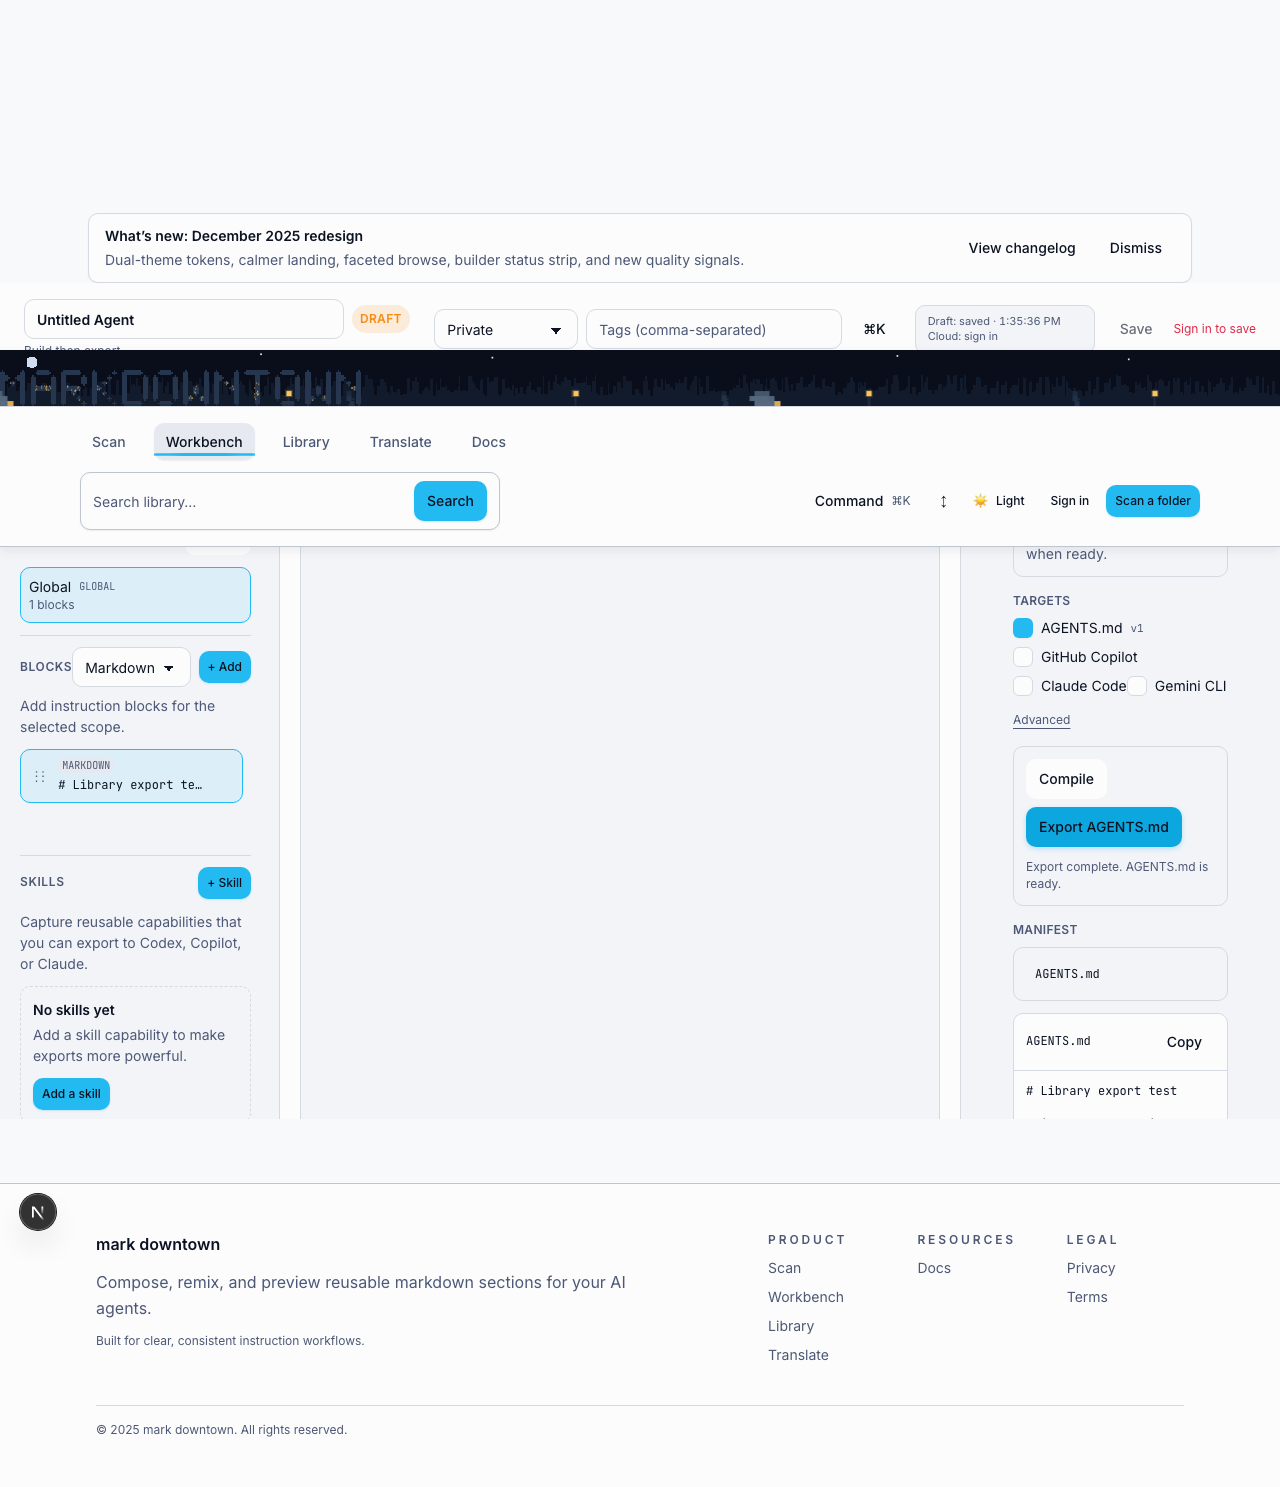
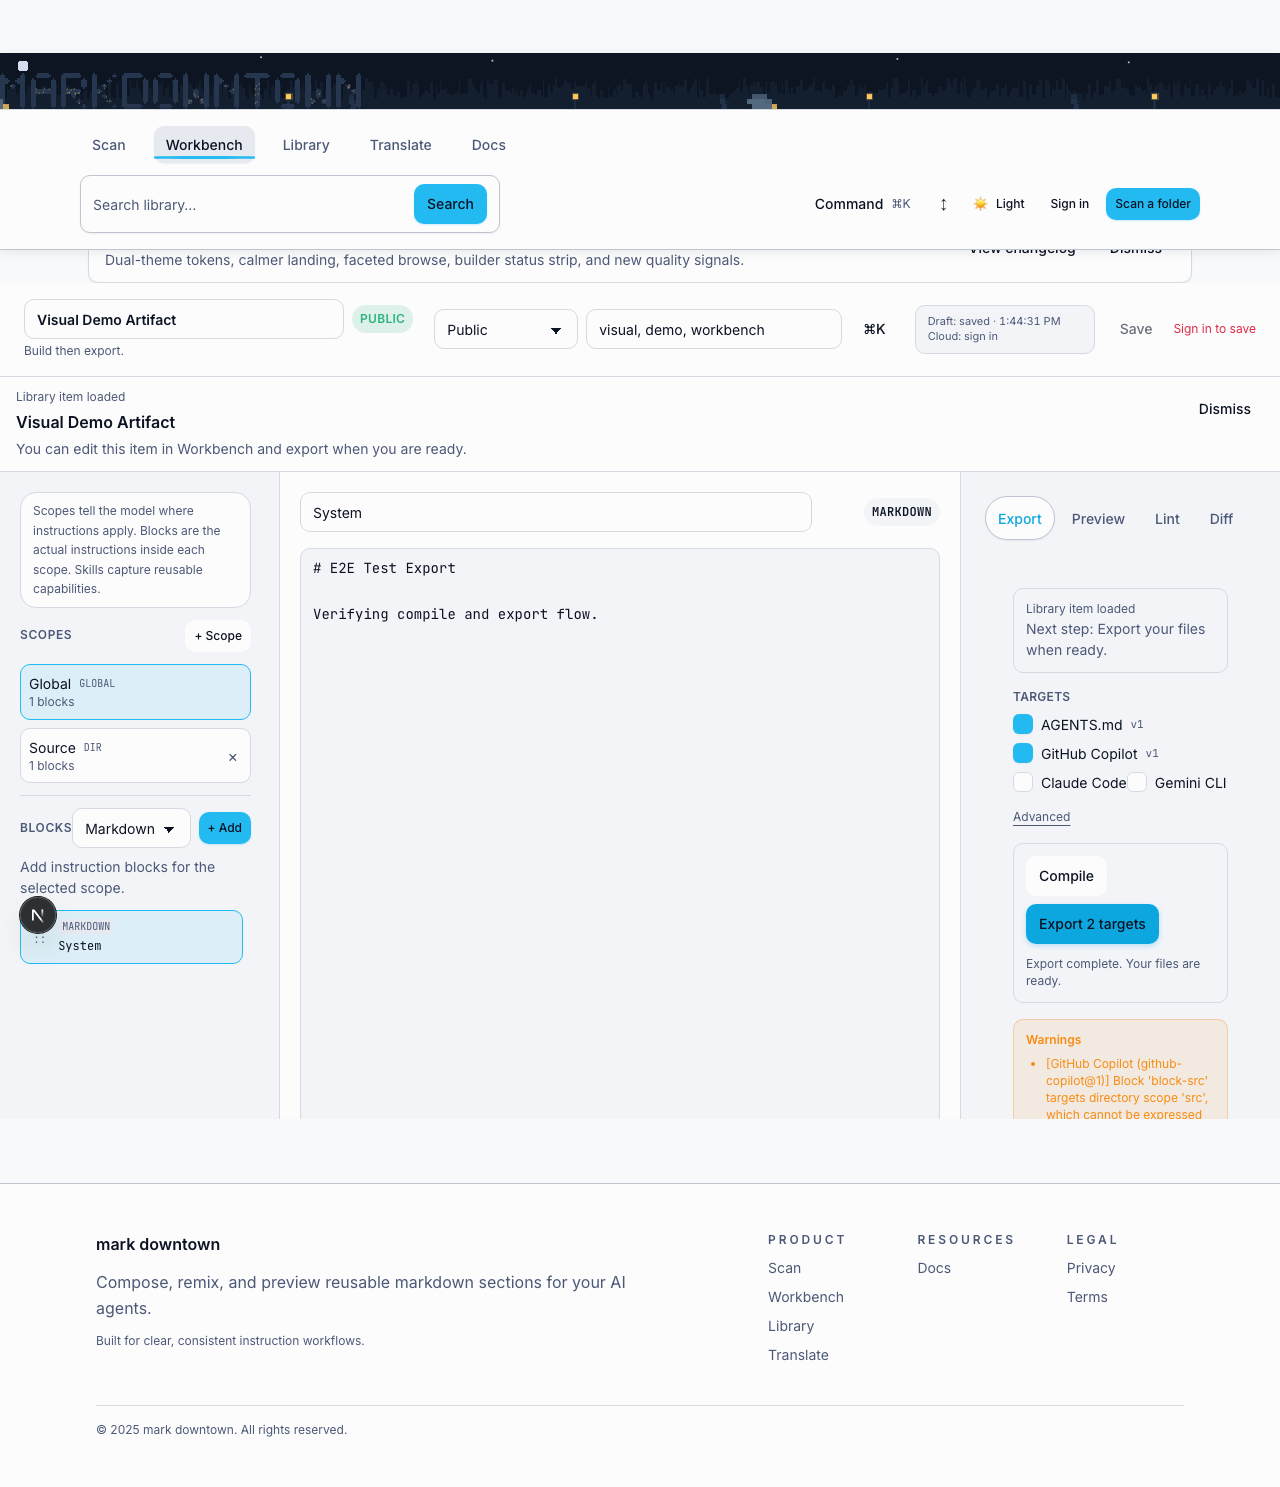
markdowntown-3lbl.19: Library → Workbench → Export E2E
Make the library export E2E deterministic with seeded selection, AGENTS.md zip assertion, and updated export readiness checks.

Files: __tests__/e2e/library-to-export.test.ts, docs/screenshots/core-flows/library-workbench-export.png, .beads/issues.jsonl

diff --git a/__tests__/e2e/library-to-export.test.ts b/__tests__/e2e/library-to-export.test.ts
@@ -3,10 +3,13 @@ import { describe, it, beforeAll, afterAll, expect } from "vitest";
 import { withE2EPage } from "./playwrightArtifacts";
 import fs from "node:fs/promises";
 import path from "node:path";
+import JSZip from "jszip";
 
 const baseURL = process.env.E2E_BASE_URL;
 const headless = true;
-const screenshotPath = process.env.E2E_SCREENSHOT_PATH;
+// Plan-specified default path, overridable by env
+const screenshotPath =
+  process.env.E2E_SCREENSHOT_PATH || "docs/screenshots/core-flows/library-workbench-export.png";
 
 describe("Library to export", () => {
   let browser: Browser;
@@ -30,7 +33,9 @@ describe("Library to export", () => {
         acceptDownloads: true,
       },
       async (page) => {
+        // 1. Open /library
         await page.goto("/library", { waitUntil: "domcontentloaded" });
+        
         const rows = page.getByTestId("artifact-row");
         const emptyState = page
           .getByRole("heading", { name: /no public items match those filters|no public items/i })
@@ -44,65 +49,83 @@ describe("Library to export", () => {
         const rowCount = await rows.count();
         expect(rowCount).toBeGreaterThan(0);
 
-        const agentsRow = rows.filter({ hasText: "AGENTS.md" });
-        const targetRow = (await agentsRow.count()) > 0 ? agentsRow.first() : rows.first();
+        // 2. Choose a row (Prefer seeded item known to have AGENTS.md/agents-md target)
+        // Seed title: "Official: Repo-aware coding assistant"
+        const seedRow = rows.filter({ hasText: "Repo-aware coding assistant" });
+        const targetRow = (await seedRow.count()) > 0 ? seedRow.first() : rows.first();
+        
         const openLink = targetRow.getByRole("link", { name: /open in workbench/i });
         await openLink.click();
 
+        // 3. Ensure workbench loaded
         await page.waitForURL(/\/workbench/);
         await page.getByTestId("workbench-scopes-panel").waitFor({ state: "visible", timeout: 20000 });
-        await page.getByRole("button", { name: /^compile$/i }).first().waitFor({ state: "visible", timeout: 20000 });
-
-        const editorPanel = page.locator("#workbench-editor-panel");
-        const addBlockButton = editorPanel.getByRole("button", { name: /add a block/i }).first();
-        if ((await addBlockButton.count()) > 0 && (await addBlockButton.isVisible())) {
-          await addBlockButton.click();
-        }
-        const openFirstBlock = editorPanel.getByRole("button", { name: /open first block/i }).first();
-        if ((await openFirstBlock.count()) > 0 && (await openFirstBlock.isVisible())) {
-          await openFirstBlock.click();
-        }
-
-        const blockBody = page.locator("#workbench-block-body");
-        await blockBody.waitFor({ state: "visible", timeout: 20000 });
-        await blockBody.fill("# Library export test\n\nThis ensures compile outputs.");
-        const blockHandle = await blockBody.elementHandle();
-        if (blockHandle) {
-          await page.waitForFunction((el) => (el as HTMLTextAreaElement).value.length > 0, blockHandle);
-        }
-
-        const targetCheckbox = page.getByRole("checkbox", { name: "AGENTS.md" });
-        await targetCheckbox.waitFor({ state: "visible" });
-        if (!(await targetCheckbox.isChecked())) {
-          await targetCheckbox.click({ force: true });
-          await page.waitForFunction((el) => (el as HTMLInputElement).checked, await targetCheckbox.elementHandle());
-        }
-
+        
+        // Wait for compiler to be ready (button visible)
         const compileButton = page.getByRole("button", { name: /^compile$/i }).first();
-        const compileHandle = await compileButton.elementHandle();
-        if (compileHandle) {
-          await page.waitForFunction((button) => !button.hasAttribute("disabled"), compileHandle);
-        }
-        const compileResponse = page.waitForResponse((response) => {
-          return response.url().includes("/api/compile") && response.status() === 200;
-        });
-        await compileButton.click();
-        await compileResponse;
+        await compileButton.waitFor({ state: "visible", timeout: 20000 });
 
+        // Add a block if empty (ensure body content)
+        const editorPanel = page.locator("#workbench-editor-panel");
+        const blockBody = page.locator("#workbench-block-body");
+        
+        // If we landed on a fresh workbench or empty state, ensure we have a block
+        // (The seed item usually has blocks, but let's be safe)
+        if (await blockBody.count() === 0) {
+            const addBlockButton = editorPanel.getByRole("button", { name: /add a block/i }).first();
+            if (await addBlockButton.isVisible()) {
+                await addBlockButton.click();
+            }
+        }
+        
+        await blockBody.waitFor({ state: "visible", timeout: 20000 });
+        // Fill block body to ensure we have content to compile
+        await blockBody.fill("# E2E Test Export\n\nVerifying compile and export flow.");
+
+        // 4. Select AGENTS.md target
+        // The seed item uses 'agents-md' target. Label might be "AGENTS.md" or "agents-md".
+        // We use a regex to be flexible.
+        const targetCheckbox = page.getByRole("checkbox", { name: /agents\.md|agents-md/i });
+        await targetCheckbox.waitFor({ state: "visible" });
+        
+        if (!(await targetCheckbox.isChecked())) {
+          await targetCheckbox.check();
+        }
+
+        // 5. Compile
+        const compilePromise = page.waitForResponse((response) => 
+          response.url().includes("/api/compile") && response.status() === 200
+        );
+        await compileButton.click();
+        await compilePromise;
+
+        // Wait for Manifest to appear
         await page.getByText("Manifest").waitFor({ state: "visible", timeout: 20000 });
 
+        // 6. Export and Assert Zip
         const exportButton = page.getByRole("button", { name: /export/i }).first();
-        const exportHandle = await exportButton.elementHandle();
-        if (exportHandle) {
-          await page.waitForFunction((button) => !button.hasAttribute("disabled"), exportHandle);
-        }
+        await exportButton.waitFor({ state: "visible", timeout: 20000 });
+        expect(await exportButton.isEnabled()).toBe(true);
+
         const [download] = await Promise.all([
           page.waitForEvent("download"),
           exportButton.click(),
         ]);
 
         expect(download.suggestedFilename()).toBe("outputs.zip");
+        
+        // Verify ZIP content
+        const zipPath = await download.path();
+        const zipData = await fs.readFile(zipPath);
+        const zip = await JSZip.loadAsync(zipData);
+        
+        // We expect AGENTS.md because we selected it
+        // The key in zip might be "AGENTS.md" or inside a folder depending on implementation
+        const files = Object.keys(zip.files);
+        const hasAgentsMd = files.some(f => f.endsWith("AGENTS.md"));
+        expect(hasAgentsMd, `ZIP should contain AGENTS.md. Found: ${files.join(", ")}`).toBe(true);
 
+        // 7. Capture Screenshot
         if (screenshotPath) {
           await fs.mkdir(path.dirname(screenshotPath), { recursive: true });
           await page.screenshot({ path: screenshotPath, fullPage: true });
